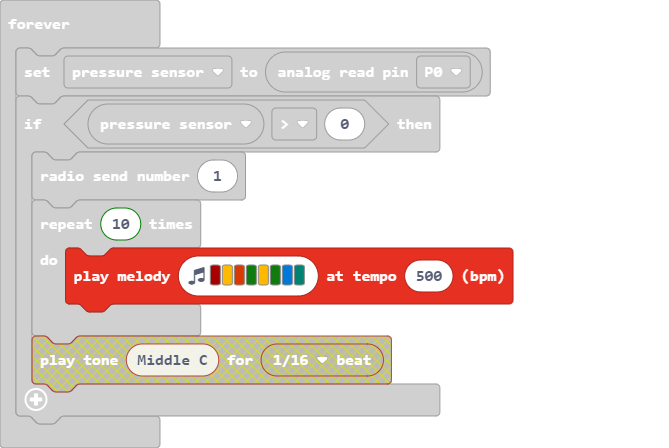
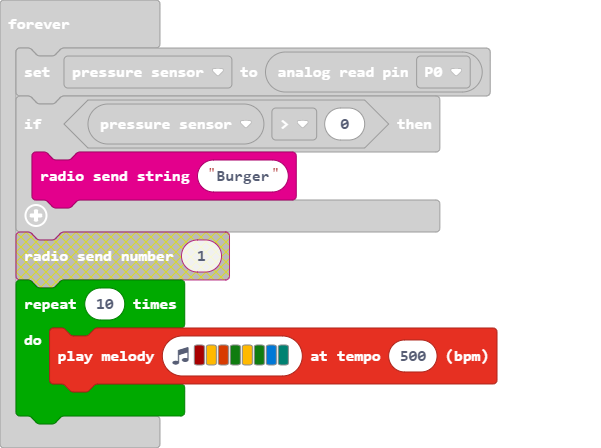
Update main.blocks, main.ts

diff --git a/main.ts b/main.ts
@@ -3,9 +3,6 @@ radio.setGroup(1)
 basic.forever(function () {
     pressure_sensor = pins.analogReadPin(AnalogPin.P0)
     if (pressure_sensor > 0) {
-        radio.sendNumber(1)
-        for (let index = 0; index < 10; index++) {
-            music.playMelody("C5 A B G A G E F ", 500)
-        }
+        radio.sendString("Burger")
     }
 })
